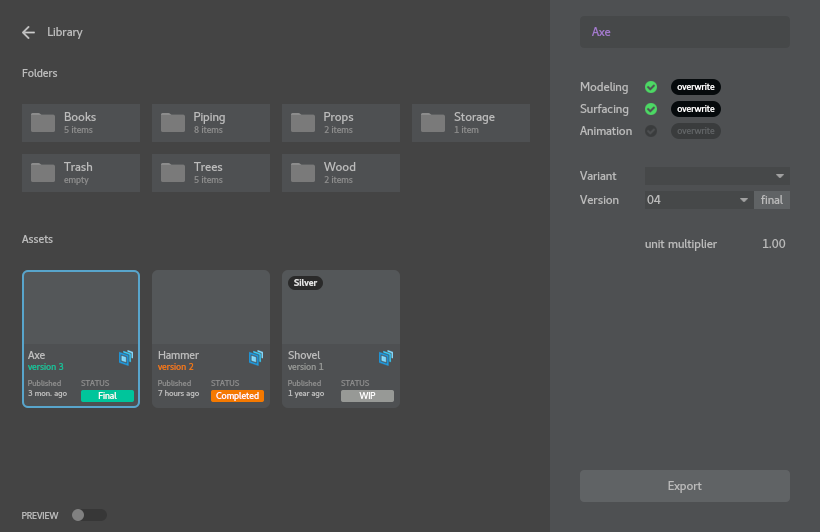
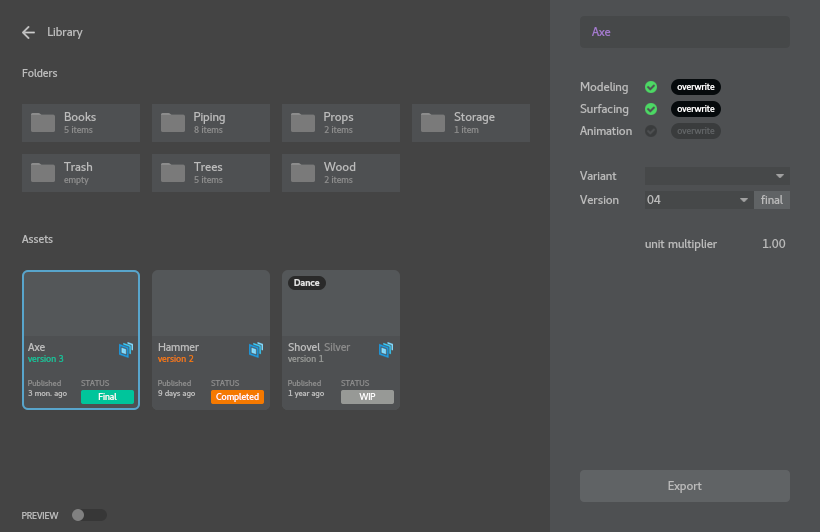
added animation tag and moved variant tag for preview

diff --git a/widgets/IconPainter.py b/widgets/IconPainter.py
@@ -255,6 +255,8 @@ class Icon (object):
             self.width  - self.space*4 ,
             labelHeight - self.space*2 )
 
+        spaceName = labelArea.width()
+
 
 
         # PREVIEW
@@ -313,7 +315,7 @@ class Icon (object):
 
 
 
-        # ICON
+        # TYPE ICON
         typeImage = QtGui.QImage(":/icons/typeusd.png")
 
         offsetIcon = 0
@@ -327,6 +329,7 @@ class Icon (object):
                     labelArea.y() + offsetIcon )
 
         self.painter.drawImage(iconPosition, typeImage)
+        spaceName -= typeImage.width()
 
 
 
@@ -335,115 +338,54 @@ class Icon (object):
 
 
 
-        # VARIANT TAG
-        variant = self.index.data(QtCore.Qt.EditRole)["data"]["variant"]
-        if variant:
+        # ANIMATION TAG
+        textAnimation = self.index.data(QtCore.Qt.EditRole)["data"]["animation"]
+        if textAnimation:
+            textAnimation = textAnimation.replace("_", " ")
 
             textOption = QtGui.QTextOption()
             textOption.setWrapMode(QtGui.QTextOption.NoWrap)
             textOption.setAlignment(QtCore.Qt.AlignHCenter|QtCore.Qt.AlignVCenter)
 
-            font = UIsettings.IconDelegate.Variant.font
-            self.painter.setFont(font)
+            fontAnimation = UIsettings.IconDelegate.Animation.font
+            self.painter.setFont(fontAnimation)
             self.painter.setPen( QtGui.QColor(stylesheet.paper) )
 
-            offsetTag = UIsettings.IconDelegate.Variant.offset
-            spaceTag  = UIsettings.IconDelegate.Variant.space
-            heightTag = UIsettings.IconDelegate.Variant.height
-            widthTag  = tools.getStringWidth(variant, font)
+            offsetTag = UIsettings.IconDelegate.Animation.offset
+            spaceTag  = UIsettings.IconDelegate.Animation.space
+            heightTag = UIsettings.IconDelegate.Animation.height
             radiusTag = int(round(heightTag/2))
+
+            animationWidth = tools.getStringWidth(textAnimation, fontAnimation)
+
+            spaceAnimation = self.iconRect.width() - spaceTag - offsetTag*2
+            if animationWidth > spaceAnimation:
+
+                while animationWidth > spaceAnimation:
+                    if not textAnimation: break
+
+                    textAnimation = textAnimation[:-1]
+                    animationWidth = tools.getStringWidth(
+                        textAnimation + "...", fontAnimation)
+
+                textAnimation += "..."
 
             tagArea = QtCore.QRect(
                 self.iconRect.x() + offsetTag ,
                 self.iconRect.y() + offsetTag ,
-                widthTag          + spaceTag  ,
+                animationWidth    + spaceTag  ,
                 heightTag                     )
 
 
             path = QtGui.QPainterPath()
             path.addRoundedRect(tagArea, radiusTag, radiusTag)
 
-            brush = QtGui.QBrush( QtGui.QColor(stylesheet.iconVariant) )
+            brush = QtGui.QBrush( QtGui.QColor(stylesheet.iconAnimation) )
             self.painter.fillPath(path, brush)
 
             self.painter.drawText(
                 QtCore.QRectF(tagArea),
-                variant,
-                textOption)
-
-
-
-        # NAME
-        textOption = QtGui.QTextOption()
-        textOption.setWrapMode(QtGui.QTextOption.NoWrap)
-        textOption.setAlignment(QtCore.Qt.AlignLeft|QtCore.Qt.AlignTop)
-
-        self.painter.setPen( QtGui.QColor(stylesheet.text) )
-        self.painter.setFont( UIsettings.IconDelegate.fontAssetName )
-
-        offsetName = -2
-
-        if iconSize == 1:
-            nameArea = QtCore.QRect(
-                labelArea.x()                   ,
-                labelArea.y()      + offsetName ,
-                labelArea.width()               ,
-                labelArea.height() - offsetName )
-        else:
-            nameArea = QtCore.QRect(
-                labelArea.x() + typeImage.width() + self.space*2 ,
-                labelArea.y()      + offsetName                ,
-                int(labelArea.width()/2)                       ,
-                labelArea.height() - offsetName                )
-
-        text = self.index.data(QtCore.Qt.EditRole)["data"]["name"]
-
-        self.painter.drawText(
-            QtCore.QRectF(nameArea),
-            text,
-            textOption)
-
-
-
-        # VERSION
-        font = UIsettings.IconDelegate.fontAssetVersion
-        self.painter.setFont(font)
-
-        # draw version text
-        offsetVersion = 13
-        nameArea = QtCore.QRect(
-            nameArea.x()                      ,
-            nameArea.y()      + offsetVersion ,
-            nameArea.width()                  ,
-            nameArea.height() - offsetVersion )
-
-        version = self.index.data(QtCore.Qt.EditRole)["data"]["version"]
-        textVersion = "version {}".format(version)
-
-        self.painter.setPen( statusColor )
-        self.painter.drawText(
-            QtCore.QRectF(nameArea),
-            textVersion,
-            textOption)
-
-        if self.iconRect.contains(self.pointer):
-
-            versionWidth = tools.getStringWidth(textVersion, font)
-            offsetPixel = 1
-
-            nameArea = QtCore.QRect(
-                nameArea.x()      + versionWidth + offsetPixel ,
-                nameArea.y()                                   ,
-                nameArea.width()  - versionWidth - offsetPixel ,
-                nameArea.height()                              )
-
-            count = self.index.data(QtCore.Qt.EditRole)["data"]["count"]
-            textCount = " // {}".format(count)
-
-            self.painter.setPen( QtGui.QColor(stylesheet.text) )
-            self.painter.drawText(
-                QtCore.QRectF(nameArea),
-                textCount,
+                textAnimation,
                 textOption)
 
 
@@ -451,6 +393,10 @@ class Icon (object):
         # PUBLISHED & STATUS LABELS
         self.painter.setPen( QtGui.QColor(stylesheet.textlock) )
         self.painter.setFont( UIsettings.IconDelegate.fontAssetLabel )
+
+        textOption = QtGui.QTextOption()
+        textOption.setWrapMode(QtGui.QTextOption.NoWrap)
+        textOption.setAlignment(QtCore.Qt.AlignLeft|QtCore.Qt.AlignTop)
 
         statusHeight = UIsettings.AssetBrowser.Icon.Asset.statusHeight
 
@@ -468,6 +414,7 @@ class Icon (object):
                 labelArea.y() + int(labelArea.height() - statusHeight ) ,
                 publishedWidth                                          ,
                 statusHeight                                            )
+            spaceName -= publishedWidth*2 + self.space*2
         else:
             publishedWidth = int(((labelArea.width() - self.space*8)/3 )/2)
             publishedArea = QtCore.QRect(
@@ -475,6 +422,7 @@ class Icon (object):
                 labelArea.y() + int(labelArea.height() - statusHeight ) ,
                 publishedWidth                                          ,
                 statusHeight                                            )
+            spaceName -= publishedWidth*2 + self.space*2
 
         self.painter.drawText(
             QtCore.QRectF(publishedArea),
@@ -498,6 +446,10 @@ class Icon (object):
         # PUBLISHED DATE
         self.painter.setPen( QtGui.QColor(stylesheet.text) )
         self.painter.setFont( UIsettings.IconDelegate.fontAssetLabel )
+        
+        textOption = QtGui.QTextOption()
+        textOption.setWrapMode(QtGui.QTextOption.NoWrap)
+        textOption.setAlignment(QtCore.Qt.AlignLeft|QtCore.Qt.AlignTop)
 
         offsetPublished = 10
         dateArea = QtCore.QRect(
@@ -546,6 +498,133 @@ class Icon (object):
             QtCore.QRectF(buttonArea),
             status,
             textOption)
+
+
+
+        # NAME
+        textOption = QtGui.QTextOption()
+        textOption.setWrapMode(QtGui.QTextOption.NoWrap)
+        textOption.setAlignment(QtCore.Qt.AlignLeft|QtCore.Qt.AlignTop)
+
+        fontName = UIsettings.IconDelegate.fontAssetName
+        self.painter.setFont(fontName)
+
+        self.painter.setPen( QtGui.QColor(stylesheet.text) )
+
+        offsetName = -2
+        spaceName -= self.space
+
+        if iconSize == 1:
+            nameArea = QtCore.QRect(
+                labelArea.x()                   ,
+                labelArea.y()      + offsetName ,
+                spaceName               ,
+                labelArea.height() - offsetName )
+        else:
+            nameArea = QtCore.QRect(
+                labelArea.x() + typeImage.width() + self.space*2 ,
+                labelArea.y()      + offsetName                ,
+                spaceName                       ,
+                labelArea.height() - offsetName                )
+
+        textName = self.index.data(QtCore.Qt.EditRole)["data"]["name"]
+        textName = textName.replace("_", " ")
+        
+        nameWidth = tools.getStringWidth(textName, fontName)
+        spaceVariant = spaceName - nameWidth
+
+        if nameWidth > spaceName:
+
+            while nameWidth > spaceName:
+                if not textName: break
+
+                textName = textName[:-1]
+                nameWidth = tools.getStringWidth(
+                    textName + "...", fontName)
+
+            textName += "..."
+
+        self.painter.drawText(
+            QtCore.QRectF(nameArea),
+            textName,
+            textOption)
+
+
+
+        # VARIANT
+        variant = self.index.data(QtCore.Qt.EditRole)["data"]["variant"]
+        if variant and spaceVariant > self.space:
+
+            offsetPixel = 1
+
+            variantArea = QtCore.QRect(
+                nameArea.x()      + nameWidth + offsetPixel ,
+                nameArea.y()                                ,
+                nameArea.width()  - nameWidth - offsetPixel ,
+                nameArea.height()                           )
+
+            textVariant = " {}".format(variant)
+            textVariant = textVariant.replace("_", " ")
+        
+            variantWidth = tools.getStringWidth(textVariant, fontName)
+            if variantWidth > spaceVariant:
+
+                while variantWidth > spaceVariant-self.space:
+                    if not textVariant: break
+
+                    textVariant = textVariant[:-1]
+                    variantWidth = tools.getStringWidth(
+                        textVariant + "...", fontName)
+
+                textVariant += "..."
+
+            self.painter.setPen( QtGui.QColor(stylesheet.textlock) )
+            self.painter.drawText(
+                QtCore.QRectF(variantArea),
+                textVariant,
+                textOption)
+
+
+        # VERSION
+        fontVersion = UIsettings.IconDelegate.fontAssetVersion
+        self.painter.setFont(fontVersion)
+
+        # draw version text
+        offsetVersion = 13
+        nameArea = QtCore.QRect(
+            nameArea.x()                      ,
+            nameArea.y()      + offsetVersion ,
+            nameArea.width()                  ,
+            nameArea.height() - offsetVersion )
+
+        version = self.index.data(QtCore.Qt.EditRole)["data"]["version"]
+        textVersion = "version {}".format(version)
+
+        self.painter.setPen( statusColor )
+        self.painter.drawText(
+            QtCore.QRectF(nameArea),
+            textVersion,
+            textOption)
+
+        if self.iconRect.contains(self.pointer):
+
+            versionWidth = tools.getStringWidth(textVersion, fontVersion)
+            offsetPixel = 1
+
+            nameArea = QtCore.QRect(
+                nameArea.x()      + versionWidth + offsetPixel ,
+                nameArea.y()                                   ,
+                nameArea.width()  - versionWidth - offsetPixel ,
+                nameArea.height()                              )
+
+            count = self.index.data(QtCore.Qt.EditRole)["data"]["count"]
+            textCount = " // {}".format(count)
+
+            self.painter.setPen( QtGui.QColor(stylesheet.text) )
+            self.painter.drawText(
+                QtCore.QRectF(nameArea),
+                textCount,
+                textOption)
 
 
 

diff --git a/widgets/Settings.py b/widgets/Settings.py
@@ -184,11 +184,11 @@ UIsettings.IconDelegate.fontAssetVersion = makeFont( size=7, bold=False, weight=
 UIsettings.IconDelegate.fontAssetLabel   = makeFont( size=6, bold=False, weight=50 )
 UIsettings.IconDelegate.fontAssetStatus  = makeFont( size=7, bold=False, weight=50 )
 
-UIsettings.IconDelegate.Variant = DataClass()
-UIsettings.IconDelegate.Variant.space  = 10
-UIsettings.IconDelegate.Variant.offset = 6
-UIsettings.IconDelegate.Variant.height = 14
-UIsettings.IconDelegate.Variant.font   = makeFont( size=7, bold=False, weight=90 )
+UIsettings.IconDelegate.Animation = DataClass()
+UIsettings.IconDelegate.Animation.space  = 10
+UIsettings.IconDelegate.Animation.offset = 6
+UIsettings.IconDelegate.Animation.height = 14
+UIsettings.IconDelegate.Animation.font   = makeFont( size=7, bold=False, weight=90 )
 
 
 UIsettings.Options = DataClass()

diff --git a/widgets/tools.py b/widgets/tools.py
@@ -242,7 +242,7 @@ def getVersion (name):
 
 def getAnimationName (name):
 
-    animationTag = re.search(r"\.[A-Z_a-z]+\.usd", name)
+    animationTag = re.search(r"\.[-_A-Za-z]+\.usd", name)
     if animationTag:
         animationName = animationTag.group()
 
@@ -261,7 +261,7 @@ def getAnimationName (name):
 
 def getAssetName (name):
 
-    assetTag = re.search(r"^[A-Z_a-z]+\.", name)
+    assetTag = re.search(r"^[-_A-Za-z]+\.", name)
     if assetTag:
         assetName = assetTag.group()
 

diff --git a/widgets/ExportWidget.py b/widgets/ExportWidget.py
@@ -607,6 +607,7 @@ class ExportWidget (QtWidgets.QDialog):
                             version=tools.getVersion(chosenItem),
                             count=versionCount,
                             variant=tools.getVariantName(chosenItem),
+                            animation=tools.getAnimationName(chosenItem),
                             published=publishedTime,
                             status=data["status"] )) )
                     self.assetsNames.append(name)

diff --git a/widgets/stylesheet.py b/widgets/stylesheet.py
@@ -19,7 +19,7 @@ browserSocket     = "#373737"
 
 iconBackground = "#4e5052"
 iconHilight    = "#545759"
-iconVariant    = "#2a2a2a"
+iconAnimation  = "#2a2a2a"
 
 folderHilight  = "#545759"
 checkedHilight = "#58a5cc"
